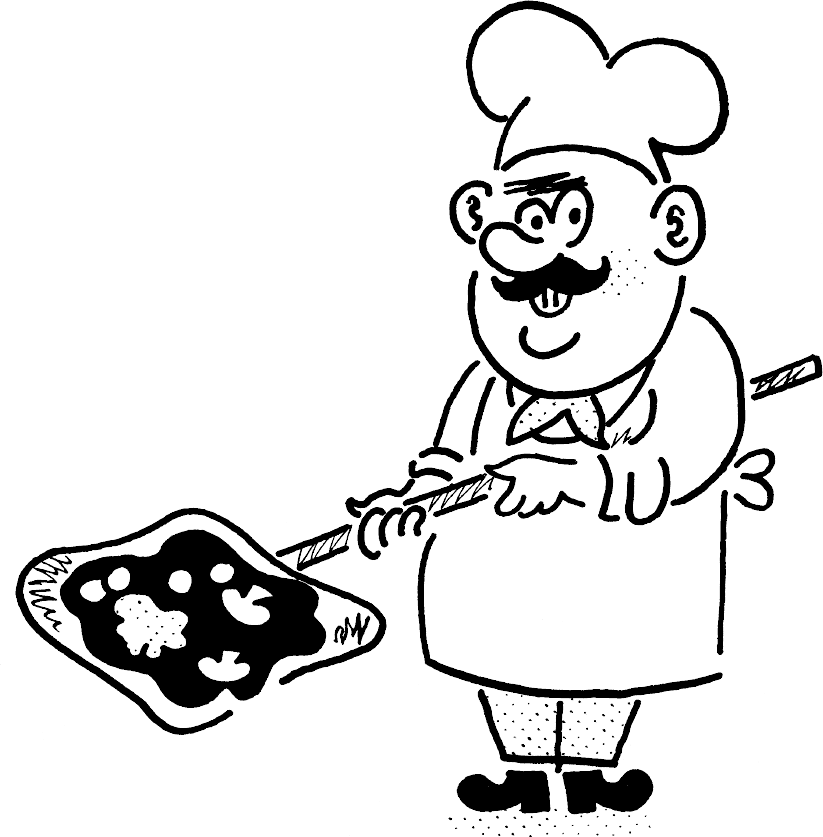
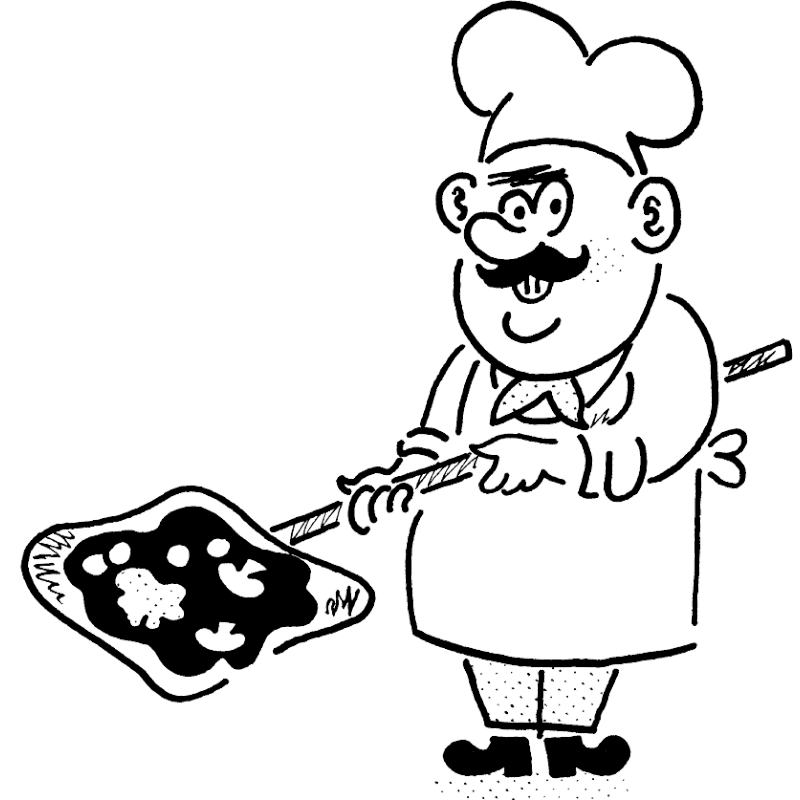
:boom: scaling images + pizza ruler

diff --git a/src/styles/components/_FoodRuler.scss b/src/styles/components/_FoodRuler.scss
@@ -1,0 +1,74 @@
+.FoodRuler {
+  @include spacing('lg', margin-top);
+  @include spacing('section', margin-bottom);
+  text-align: center;
+
+  &__ruler {
+    margin: 0 auto;
+    width: rem-calc(150);
+    border: $border--large;
+    display: flex;
+    flex-direction: column;
+    justify-content: space-evenly;
+    padding: 2em 2em 1.5em 0;
+    @include spacing('sm', margin-bottom);
+
+    @include bp(md) {
+      width: auto;
+      padding: 1em 2em 0 2em;
+      flex-direction: row;
+    }
+
+    @include bp(xxl) {
+      max-width: calc(100% / 3);
+    }
+  }
+
+  &__item {
+    position: relative;
+    padding-left: rem-calc(30);
+    margin-bottom: spacing(lg, sm);
+
+    &:last-of-type {
+      margin-bottom: 0;
+    }
+
+    @include bp(md) {
+      padding-left: 0;
+      padding-bottom: rem-calc(20);
+      text-align: center;
+      margin-bottom: 0;
+    }
+
+    &:before {
+      content: '';
+      width: rem-calc(20);
+      height: $s-border__width--large;
+      background: black;
+      margin: 0 auto;
+      position: absolute;
+      left: 0;
+      top: 0.5em;
+
+      @include bp(md) {
+        width: $s-border__width--large;
+        height: rem-calc(20);
+        top: calc(100% - #{rem-calc(20)});
+        left: 50%;
+      }
+    }
+  }
+
+  &__title {
+    font-style: normal;
+    position: relative;
+    &:after {
+      content: ',-';
+      position: absolute;
+    }
+  }
+
+  &__desc {
+    margin-bottom: 0;
+  }
+}

diff --git a/src/utils/content.js b/src/utils/content.js
@@ -3,6 +3,7 @@ import React, { Fragment } from 'react'
 import { Image } from '../components/Utilities'
 import FormBusiness from '../components/FormBusiness'
 import Food from '../components/Food'
+import FoodRuler from '../components/FoodRuler'
 
 const data = {
   address: 'Pedersgt. 8',
@@ -37,11 +38,16 @@ export default {
           Toscana-tomater,gir den lette og luftige deigen det vi synes er den
           perfekte pizza.
         </p>
+        <h3>PIZZA PÅ METEREN</h3>
+        <p>
+          Lag din egen meter med pizza ved å kombinere våre ulike pizzaer
+          akkurat slik du selv vil.{' '}
+        </p>
       </Fragment>
     ),
     content: (
       <Fragment>
-        {/* Matlinjal her */}
+        <FoodRuler />
         <Food />
       </Fragment>
     ),
@@ -74,8 +80,7 @@ export default {
     ),
     content: (
       <div>
-        <Image id="pizza2" />
-        <Image id="pizza1" />
+        <Image id="pizzabox" />
       </div>
     )
   },

diff --git a/src/components/FoodItem.js b/src/components/FoodItem.js
@@ -1,4 +1,5 @@
 import React, { Component } from 'react'
+import { Html } from './Utilities'
 
 export default class FoodItem extends Component {
   render() {
@@ -6,10 +7,14 @@ export default class FoodItem extends Component {
     return (
       <li className="Food__item">
         <header className="Food__item-header">
-          <h4 className="Food__item-title">{item.name}</h4>
-          <p className="Food__item-price">{item.dPrice}</p>
+          {item.name && <h4 className="Food__item-title">{item.name}</h4>}
+          {item.price && <p className="Food__item-price">{item.dPrice}</p>}
         </header>
-        <p className="Food__item-desc">{item.desc}</p>
+        {item.desc && (
+          <p className="Food__item-desc">
+            <Html content={item.desc} />
+          </p>
+        )}
       </li>
     )
   }

diff --git a/src/components/FoodRuler.js b/src/components/FoodRuler.js
@@ -1,0 +1,24 @@
+import React, { Component } from 'react'
+
+const price = 140
+const increment = 0.25
+
+export default class FoodRuler extends Component {
+  render() {
+    return (
+      <div className="FoodRuler">
+        <ul className="FoodRuler__ruler">
+          {new Array(4).fill('x').map((x, i) => (
+            <li className="FoodRuler__item" key={`foodruler-item-${i}`}>
+              <h3 className="FoodRuler__title">{price * (i + 1)}</h3>
+              <p className="FoodRuler__desc">{increment * (i + 1)}M</p>
+            </li>
+          ))}
+        </ul>
+        <p className="FoodRuler__helper">
+          EN VANLIG (STOR) 40CM RUND PIZZA TILSVARER HOS OSS EN 0,5M PIZZA
+        </p>
+      </div>
+    )
+  }
+}

diff --git a/src/components/Divider.js b/src/components/Divider.js
@@ -1,11 +1,20 @@
-import React, { Component } from 'react'
+import React, { Component, createRef } from 'react'
 import { Illustration } from './Utilities'
 
 export default class Divider extends Component {
+  container = createRef()
+  componentDidMount = () => {
+    setInterval(() => {
+      if (this.container.current) {
+        console.log(this.container.current.getBoundingClientRect().height)
+      }
+    }, 200)
+  }
+
   render() {
     const { illustration } = this.props
     return (
-      <div className="Divider">
+      <div className="Divider" ref={this.container}>
         <Illustration name={illustration} className="Divider__image" />
       </div>
     )

diff --git a/src/styles/components/_Divider.scss b/src/styles/components/_Divider.scss
@@ -1,16 +1,14 @@
 .Divider {
+  position: relative;
+  height: 100vh;
+  max-height: 100vh;
   min-height: 100vh;
-  display: flex;
-  justify-content: center;
-  align-items: center;
+  overflow: hidden;
 
   &__image {
-    // max-width: rem-calc(274);
-    // max-height: rem-calc(271);
-
-    // @include bp(lg) {
-    //   max-width: rem-calc(500);
-    //   max-height: rem-calc(400);
-    // }
+    position: absolute;
+    top: 50%;
+    left: 50%;
+    transform: translate(-50%, -50%);
   }
 }

diff --git a/src/components/Utilities/Illustration.js b/src/components/Utilities/Illustration.js
@@ -3,7 +3,7 @@ import cc from 'classcat'
 
 const images = {
   cash: 'cash.png',
-  chase: 'chase.png',
+  // chase: 'chase.png',
   chef: 'Chef.png',
   chef2: 'Chef2.png',
   chef3: 'Chef3.png',
@@ -34,7 +34,7 @@ export default class Illustration extends Component {
         this.setState({
           image: this.getRandomImage()
         })
-      }, 10000)
+      }, 200)
     }
   }
   getRandomImage = () => {

diff --git a/src/styles/components/_Section.scss b/src/styles/components/_Section.scss
@@ -1,6 +1,4 @@
 .Section {
-  min-height: 100vh;
-
   &--full {
     .Section__content {
       width: 100%;
@@ -28,7 +26,7 @@
 
   &__content {
     @extend .container;
-    @extend .editor;
+    // @extend .editor;
     @include content-width(text);
   }
 }

diff --git a/src/styles/components/_Illustration.scss b/src/styles/components/_Illustration.scss
@@ -1,7 +1,8 @@
 .Illustration {
-  max-height: rem-calc(271);
+  // max-height: rem-calc(271);
 
-  @include bp(xxl) {
-    max-height: rem-calc(300);
-  }
+  // @include bp(xxl) {
+  //   max-height: rem-calc(300);
+  // }
+  height: rem-calc(400);
 }

diff --git a/src/styles/base/_typography.scss b/src/styles/base/_typography.scss
@@ -16,7 +16,7 @@ body {
 
 ::selection {
   color: $c-main;
-  background: black;
+  background: rgba(0, 0, 0, 0.99);
 }
 
 ::placeholder {
@@ -75,6 +75,7 @@ small,
 strong,
 .strong {
   font-weight: $f-bold;
+  font-style: normal;
 }
 
 *:focus {

diff --git a/src/components/Utilities/Html.js b/src/components/Utilities/Html.js
@@ -9,6 +9,7 @@ export default class Html extends Component {
   }
   render() {
     let { stripTags, content } = this.props
+    console.log(content, typeof content)
     if (stripTags) {
       content = stripHTMLTags(content)
     }

diff --git a/src/styles/components/_Menu.scss b/src/styles/components/_Menu.scss
@@ -24,6 +24,7 @@
     @extend h1;
     display: inline-block;
     animation: fade-up 0.5s $trans--fast both;
+    hyphens: auto;
 
     &:last-of-type {
       @include spacing(section, margin-bottom);
